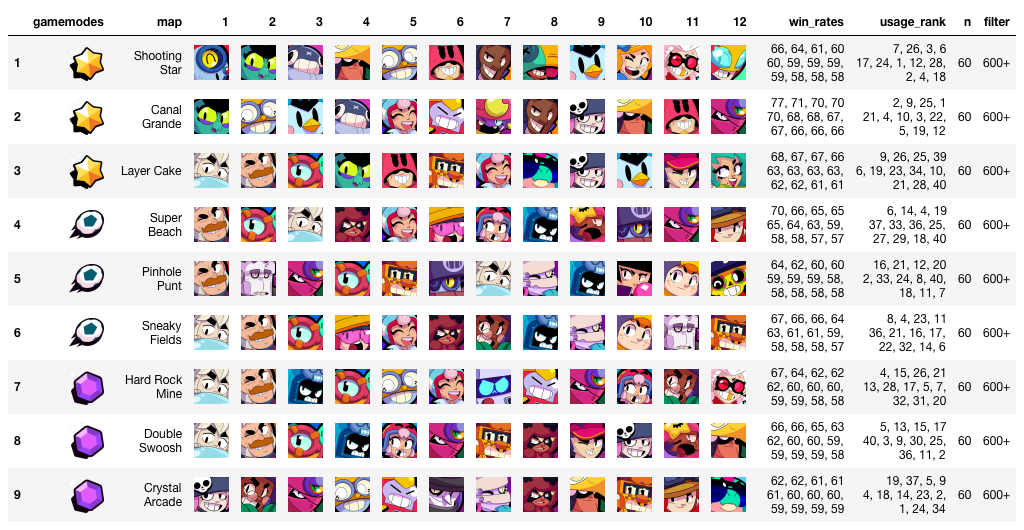
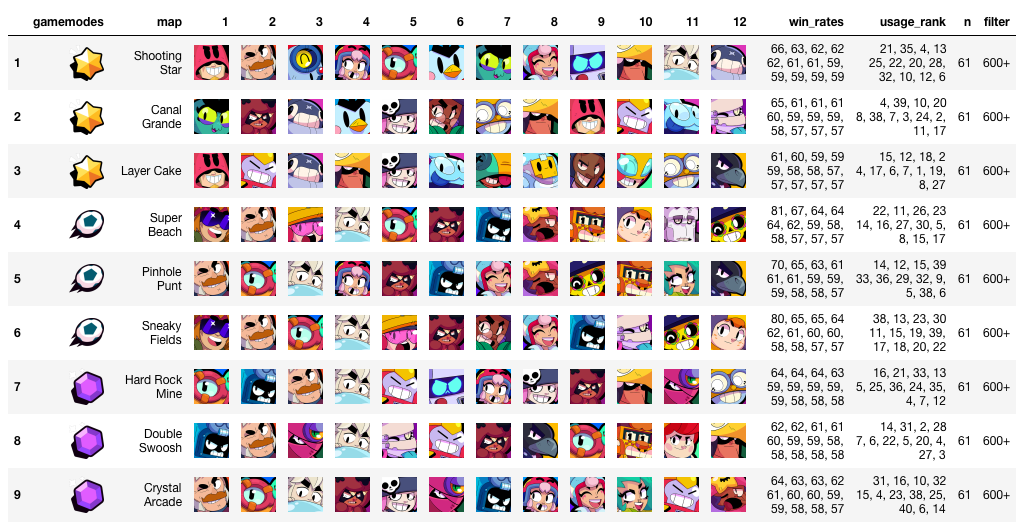
update brawlify fix

diff --git a/maps/best_brawlers_map.py b/maps/best_brawlers_map.py
@@ -91,9 +91,9 @@ if __name__ == '__main__':
             stats = stats[2:]
             stats = stats[0].split('\n')
 
-            brawlers = stats[::7]
-            win_rates = stats[2::7]
-            usage_rank = stats[5::7]
+            brawlers = stats[::10]
+            win_rates = stats[2::10]
+            usage_rank = stats[5::10]
             usage_rank = [int(y.replace('#','')) for y in usage_rank]
 
             res = pd.DataFrame({'brawlers':brawlers, 'win_rates':win_rates, 'usage_rank':usage_rank}).sort_values(by=['win_rates'], ascending=False)

diff --git a/main.py b/main.py
@@ -22,7 +22,7 @@ import statistics
 today = date.today()
 
 # Insert your Brawl Stars Developer's API Key into a file in the same directory 'api_key.txt'
-with open("../Desktop/api_key.txt",'r') as f:
+with open("api_key.txt",'r') as f:
     token = f.read()
 
 client = brawlstats.Client(token)

diff --git a/README.md b/README.md
@@ -6,7 +6,7 @@ Create a virtual environment with Python==3.7. Install the Python library `brawl
 ```
 conda create -n brawlstars python==3.7
 conda activate brawlstars
-pip install brawlstats tqdm pandas tabulate pandasql xlsxwriter selenium IPython imgkit pillow undetected_chromedriver
+pip install brawlstats tqdm pandas tabulate pandasql xlsxwriter selenium IPython imgkit pillow undetected_chromedriver Jinja2
 ```
 
 # Scripts
